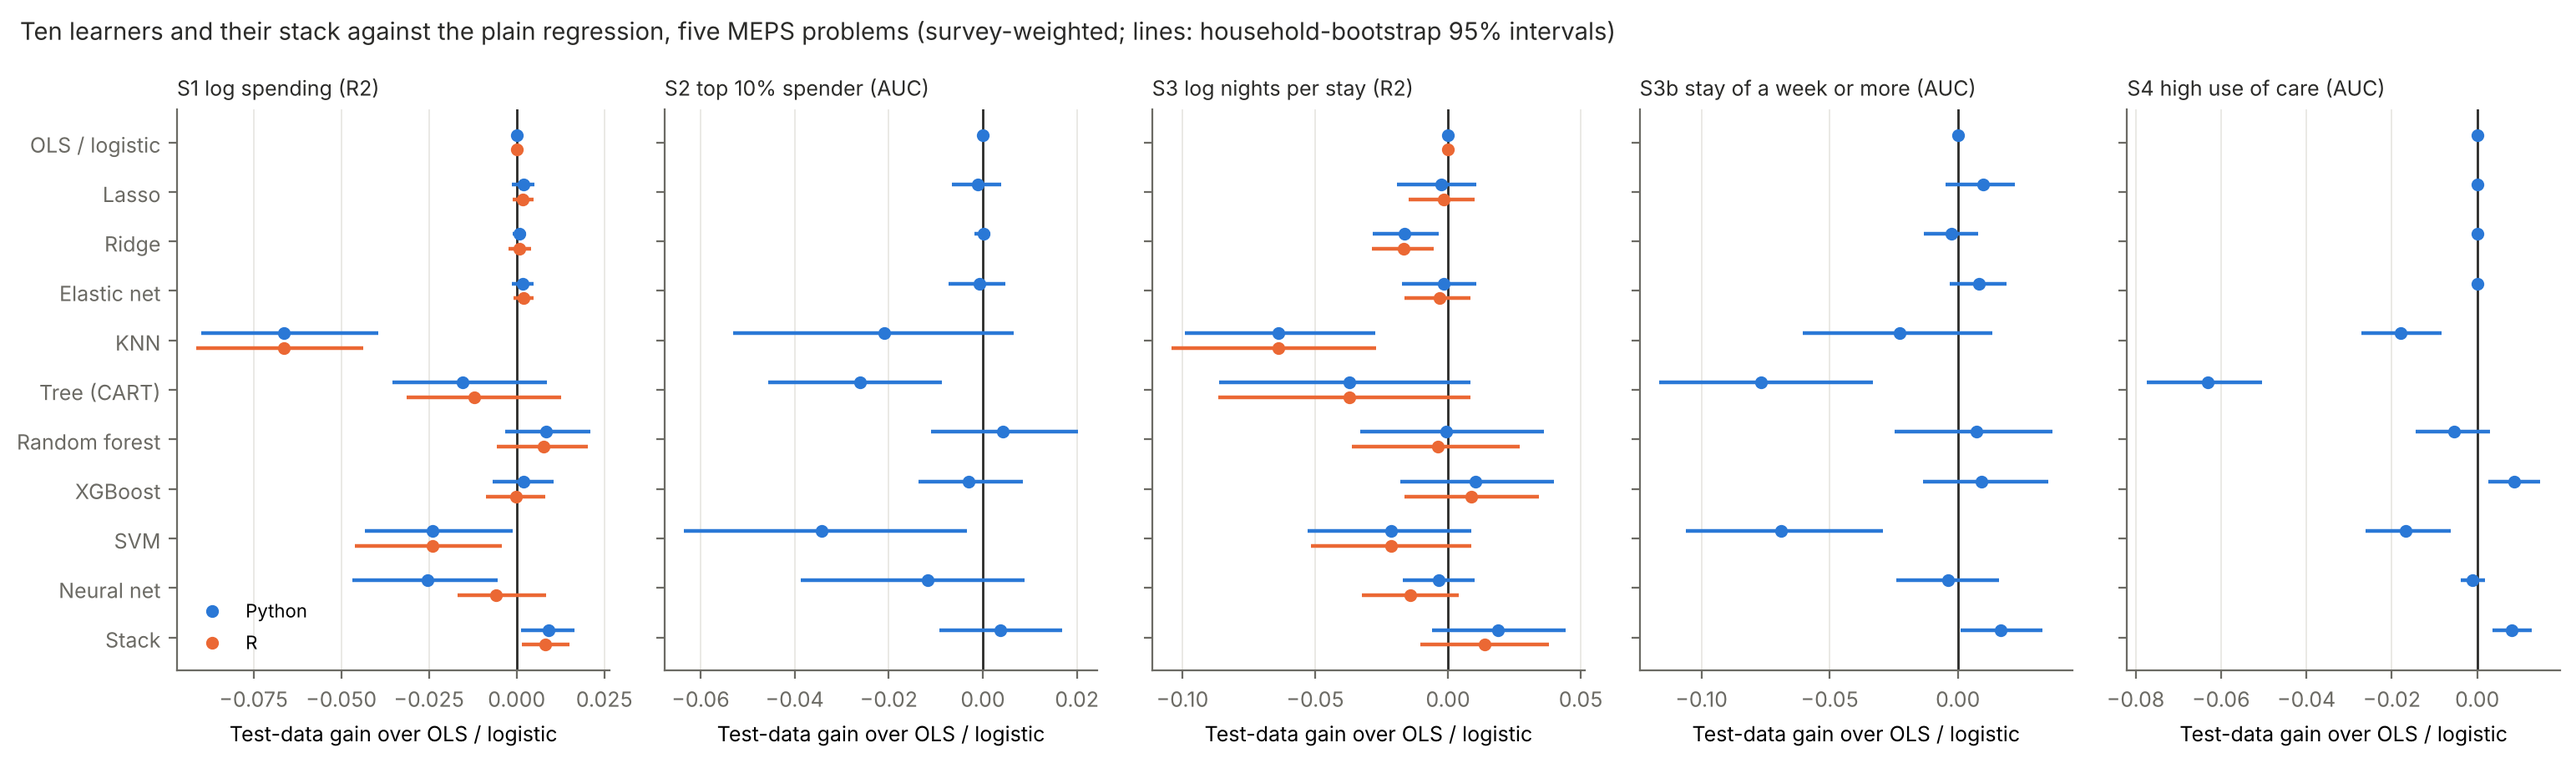
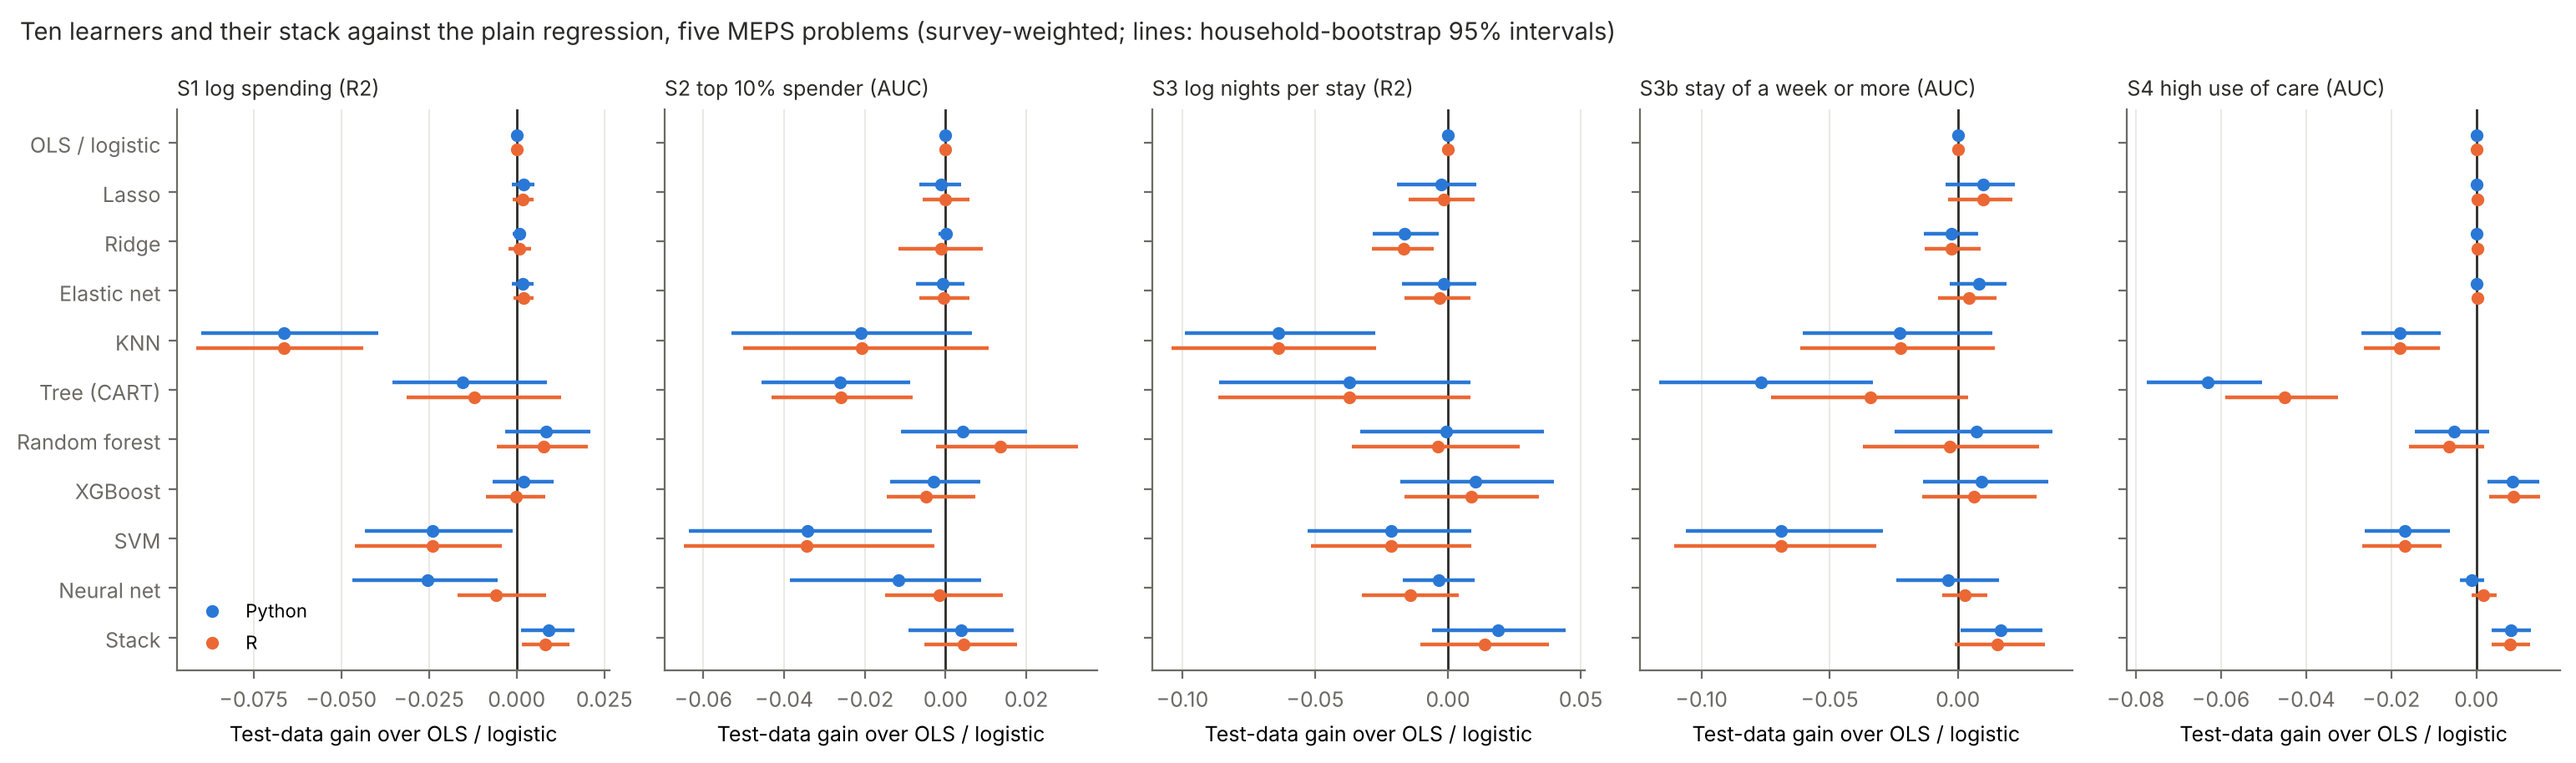
Chapter 13: R results for all five problems, rpart and nnet fixes, results table in the walkthrough
Claude-Session: https://claude.ai/code/session_018F8ZW9s77ijECoM5gwaDJd

diff --git a/ML_WALKTHROUGH.md b/ML_WALKTHROUGH.md
@@ -489,7 +489,7 @@ base learners, a stack of them, a grid of predicted-against-observed plots with
 each learner's stacking weight in its title, and a variable importance plot for
 the best model. Zeleke et al. (2023) did the same for length of stay with eight
 regressors and six classifiers, adding ROC and calibration curves. This
-chapter does it for four MEPS problems, in R and Python.
+chapter does it for five MEPS problems on three data sets, in R and Python.
 
 **The problems.**
 
@@ -527,8 +527,9 @@ admission. Stays are now counted by the year they began.
 (Bellamy et al. 2019): ten or more office, outpatient and ER visits, inpatient
 nights and home health visits in the year, with race and ethnicity
 (non-Hispanic White vs everyone else) as the "protected attribute". The
-predictors are the same year's characteristics, as in that example. 28% of adults
-were high users (weighted): 35% of non-Hispanic White adults and 18% of others.
+predictors are the same year's characteristics, as in that example. 28% of
+adults were high users (weighted): 35% of non-Hispanic White adults and 18% of
+others.
 
 **The learners.** Ten, plus their stack, the same in both languages except for
 the libraries:
@@ -570,25 +571,44 @@ out-of-fold scores.
 - `fig13_S*_roc.png` (logistic, the stack and the best learner highlighted) and
   `fig13_S*_calibration.png` (observed share against mean prediction, by
   decile) for the yes/no outcomes.
-- `fig13_S4_fairness.png`, and `docs/ml/fig13_summary.png`: each learner's
-  gain over OLS or logistic regression in all five problems, both languages.
+- `fig13_S4_fairness.png`: the group fairness metrics for S4 (below).
+- `docs/ml/fig13_summary.png` (from `ml_13c_summary.py`): each learner's gain
+  over OLS or logistic regression in all five problems, both languages.
 
 ![Gains over the plain regression](docs/ml/fig13_summary.png)
 
-**What we found** (Python; R's numbers are in the summary figure and agree to
-two decimal places almost everywhere):
+**What we found.** The two languages agree to two decimal places in most
+cells; the exceptions are the learners with the most randomness or the most
+different implementations (the single tree, the forest, the neural network).
+The numbers in the text are Python's.
 
-@@TABLE@@
+Test-data R² or AUC, survey-weighted, R / Python (the stacking weights are in
+the plots' panel titles and `output/ml/ch13/summary_table.md`):
+
+| Learner | S1 log spending (R²) | S2 top 10% (AUC) | S3 log nights (R²) | S3b week or more (AUC) | S4 high use (AUC) |
+|---|---|---|---|---|---|
+| OLS / logistic | 0.487 / 0.487 | 0.815 / 0.815 | 0.190 / 0.190 | 0.756 / 0.756 | 0.796 / 0.796 |
+| Lasso | 0.489 / 0.489 | 0.815 / 0.814 | 0.188 / 0.187 | 0.765 / 0.766 | 0.797 / 0.797 |
+| Ridge | 0.488 / 0.488 | 0.814 / 0.815 | 0.173 / 0.173 | 0.753 / 0.753 | 0.797 / 0.797 |
+| Elastic net | 0.489 / 0.489 | 0.814 / 0.814 | 0.187 / 0.188 | 0.760 / 0.764 | 0.797 / 0.797 |
+| KNN | 0.420 / 0.420 | 0.794 / 0.794 | 0.126 / 0.126 | 0.733 / 0.733 | 0.779 / 0.779 |
+| Tree (CART) | 0.475 / 0.471 | 0.789 / 0.789 | 0.153 / 0.153 | 0.722 / 0.679 | 0.751 / 0.733 |
+| Random forest | 0.495 / 0.495 | 0.828 / 0.819 | 0.186 / 0.189 | 0.753 / 0.763 | 0.790 / 0.791 |
+| XGBoost | 0.487 / 0.489 | 0.810 / 0.812 | 0.198 / 0.200 | 0.762 / 0.765 | 0.805 / 0.805 |
+| SVM | 0.463 / 0.463 | 0.780 / 0.781 | 0.168 / 0.168 | 0.687 / 0.687 | 0.780 / 0.780 |
+| Neural net | 0.481 / 0.462 | 0.813 / 0.803 | 0.176 / 0.186 | 0.758 / 0.752 | 0.798 / 0.795 |
+| Stack | 0.495 / 0.496 | 0.819 / 0.819 | 0.204 / 0.209 | 0.771 / 0.773 | 0.804 / 0.805 |
 
 1. **Nothing beat the plain regression by much.** The largest gains over OLS or
    logistic regression were the stack's: +0.017 in AUC for a week-long stay
    (95% interval 0.001 to 0.033) and +0.019 in R² for nights per stay (−0.006
    to 0.044). XGBoost beat logistic regression for high use by 0.009 (0.003 to
-   0.015), an interval that excludes zero only because 4,414 test people make
-   it narrow. Otherwise gradient boosting and the random forest tied the
-   regression, and KNN, the single tree and the SVM were worse. This is the usual finding for tabular data of this size
-   (Zeleke et al. found the same for length of stay: ridge and XGBoost tied,
-   and logistic regression was 0.002 behind gradient boosting in AUC).
+   0.015): real, with 4,414 test people, but small. Otherwise gradient
+   boosting and the random forest tied the regression, and KNN, the single
+   tree and the SVM were worse. This is the usual finding for tabular data of
+   this size (Zeleke et al. found the same for length of stay: ridge and
+   XGBoost tied, and logistic regression was 0.002 behind gradient boosting in
+   AUC).
 2. **The in-sample grids show who overfits.** The random forest's training R²
    for nights per stay was 0.59 against 0.19 in the test data; the SVM's
    training AUC for a long stay 0.98 against 0.69. OLS's in-sample and
@@ -607,14 +627,17 @@ two decimal places almost everywhere):
    the self-administered questionnaire were more often in long stays, so the
    missingness itself carries information (one reason chapter 1 keeps the
    `_miss` columns).
-5. **Two learners needed care.** scikit-learn's neural network classifier with
+5. **Three learners needed care.** scikit-learn's neural network classifier with
    early stopping stopped on validation *accuracy*, which, with 19% long stays,
    halted near "predict nobody" (test AUC 0.63, training 0.58); without early
    stopping, and with weight decay doing the regularizing, it reached 0.75. R's
    `nnet` with one random start and light decay overfit nights per stay badly
    (R² −0.08); averaging three starts and a wider decay grid brought it to
-   0.18, as chapter 6 found. A ten-learner table is only as fair as the tuning
-   of its worst-tuned learner.
+   0.18, as chapter 6 found. And R's single classification tree (`rpart`'s
+   "class" method) never split for long stays at depth 3 (AUC 0.50); grown as
+   a regression tree on the 0/1 outcome, which is what scikit-learn's Gini
+   criterion amounts to, it reached 0.72. A ten-learner table is only as fair
+   as the tuning of its worst-tuned learner.
 
 **Fairness (S4).** At a threshold that flags the same share as are high users,
 logistic regression flagged 40% of non-Hispanic White adults in the test data
@@ -640,8 +663,10 @@ group and outcome are independent in the training data; it brought disparate
 impact to 0.77–0.86 and closed the true-positive gap, for 0.02 in AUC and much
 worse calibration: the reweighed logistic model's average prediction for
 others was 64% above their observed rate. (Even the plain models over-predict
-for others by 18%, because they were fitted without the survey weights and
-judged with them.) Which of these is fair depends on what the flag is for. If
+for others by 18%, probably because they were fitted without the survey
+weights and judged with them.) Social characteristics carry much of the
+prediction: for XGBoost, education ranked first and race and ethnicity fourth
+in importance, ahead of self-rated health. Which of these is fair depends on what the flag is for. If
 high use stands in for need, the flag should follow need, and use is a biased
 measure of need when some groups face more barriers to care; Obermeyer et al.
 (2019) found exactly this in a commercial algorithm that used spending as the

diff --git a/README.md b/README.md
@@ -136,7 +136,7 @@ Chapter 13 compares ten learners and their stack on four problems; its extract a
 
 ```bash
 python ml/python/ml_13a_stays_extract.py "C:/Users/YOU/folder/MEPS raw"   # or Rscript ml/R/ml_13a_stays_extract.R ...
-python ml/python/ml_13_model_comparison.py          # S1-S4 (~45 min); or Rscript ml/R/ml_13_model_comparison.R
+python ml/python/ml_13_model_comparison.py          # S1-S4 (~35 min); or Rscript ml/R/ml_13_model_comparison.R (~2 hours)
 python ml/python/ml_13c_summary.py                  # one figure and table across scenarios and languages
 ```
 
